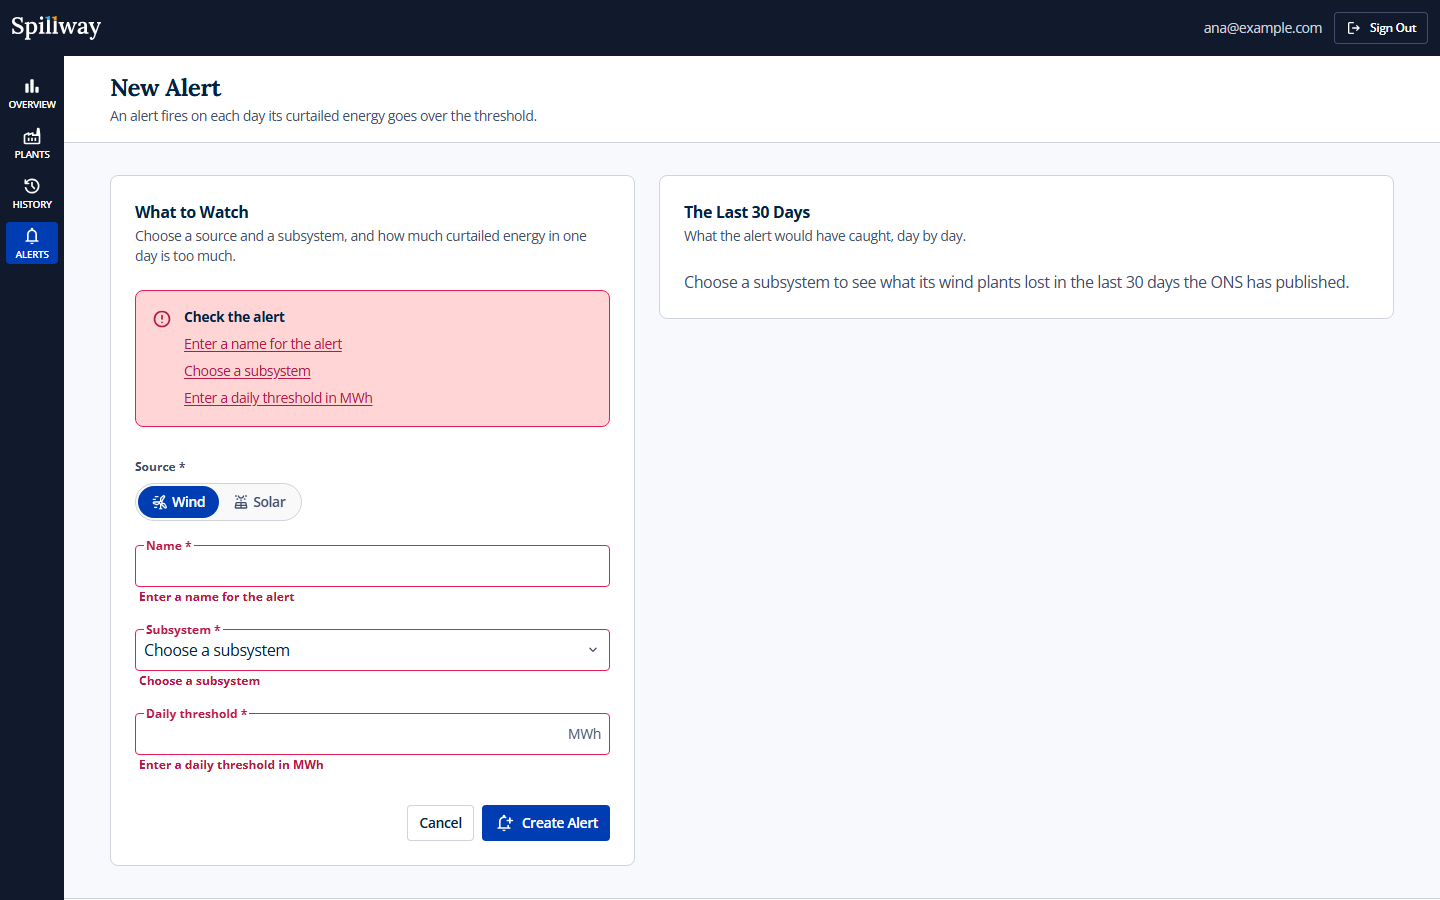
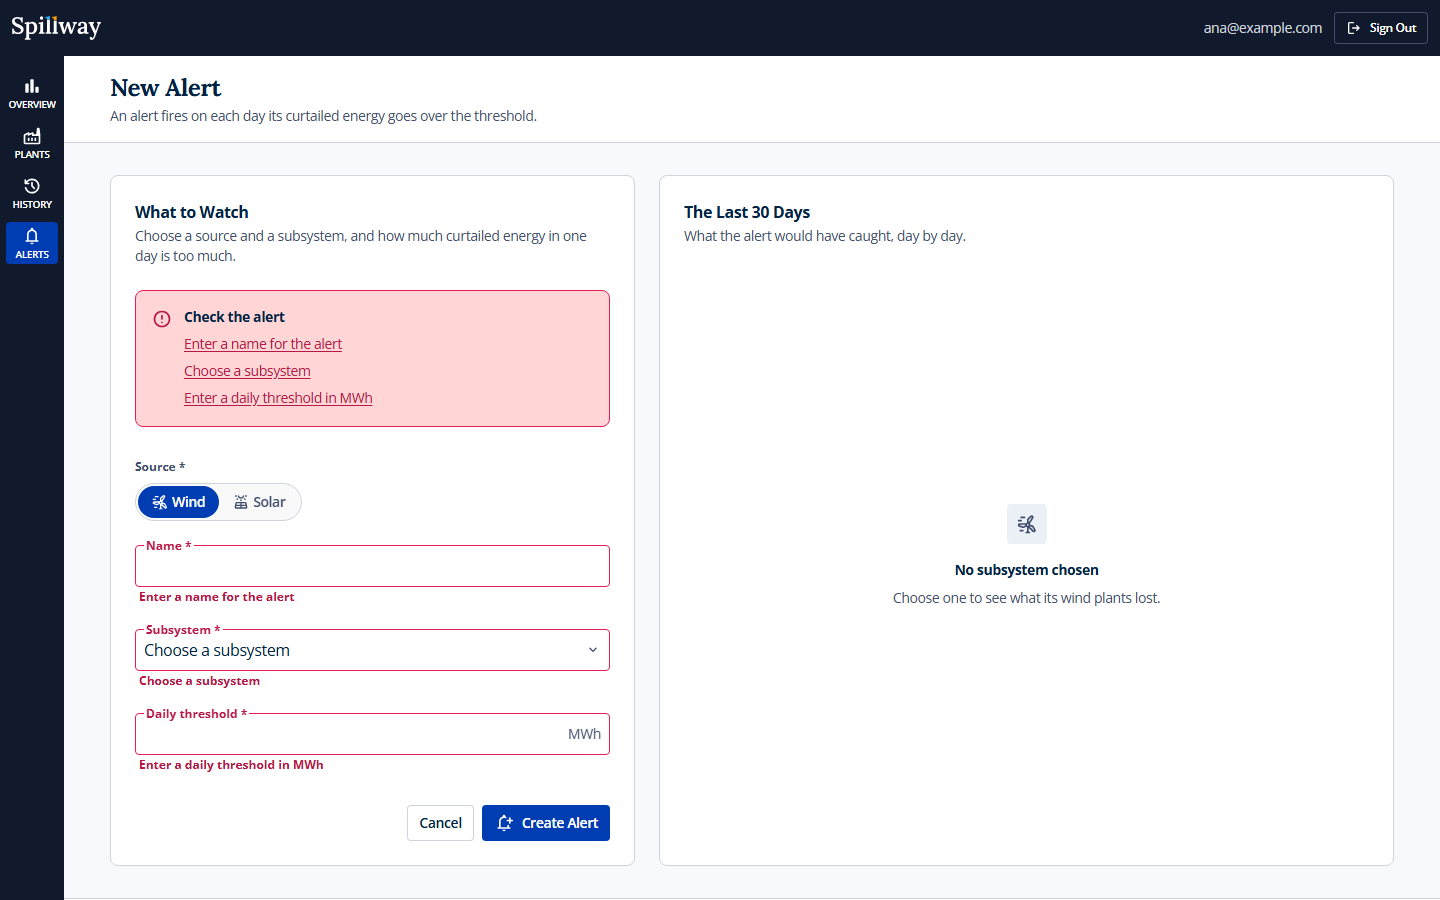
feat(web): show the empty preview as an empty state

Changed region(s): [[0.4688, 0.3111, 0.9375, 0.3422], [0.625, 0.6222, 0.8125, 0.6844], [0.6875, 0.56, 0.7188, 0.5911]]

diff --git a/apps/web/src/routes/alerts/new/+page.svelte b/apps/web/src/routes/alerts/new/+page.svelte
@@ -1,4 +1,5 @@
 <script lang="ts">
+  import Downloading from '~icons/material-symbols/downloading-rounded';
   import NotificationAdd from '~icons/material-symbols/notification-add-outline-rounded';
 
   import { enhance } from '$app/forms';
@@ -6,6 +7,7 @@
   import Button from '#lib/components/ui/Button.svelte';
   import { buttonStyles } from '#lib/components/ui/button-styles.ts';
   import Card from '#lib/components/ui/Card.svelte';
+  import EmptyState from '#lib/components/ui/EmptyState.svelte';
   import ErrorSummary from '#lib/components/ui/ErrorSummary.svelte';
   import PageHeader from '#lib/components/ui/PageHeader.svelte';
   import AlertFields from '#lib/features/alerts/AlertFields.svelte';
@@ -138,10 +140,13 @@
         : `${sources.find((s) => s.value === source)?.label} in the ${subsystemLabel(subsystem)}, day by day, against your threshold.`}
     >
       {#if data.recent === null}
-        <p class="ts-primary-body-l text-text-secondary-default">
-          The ONS's data is still loading, so there is nothing to preview yet. The alert works all
-          the same.
-        </p>
+        <div class="flex flex-1 items-center justify-center">
+          <EmptyState
+            icon={Downloading}
+            title="Nothing to preview yet"
+            description="The ONS's data is still loading. The alert works all the same."
+          />
+        </div>
       {:else}
         <Preview recent={data.recent} {source} {subsystem} {threshold} />
       {/if}

diff --git a/apps/web/src/lib/components/ui/EmptyState.svelte b/apps/web/src/lib/components/ui/EmptyState.svelte
@@ -1,21 +1,41 @@
 <script lang="ts">
   import type { Snippet } from 'svelte';
 
+  import type { Icon as IconComponent } from './icon.ts';
+
   type Props = {
     title: string;
     description: string;
     headingLevel?: 2 | 3;
-    /** The illustration, drawn for the place it is shown in. */
-    art: Snippet;
     children?: Snippet;
-  };
+  } & (
+    | {
+        /** The illustration, drawn for the place it is shown in. */
+        art: Snippet;
+        icon?: never;
+      }
+    | {
+        /** In place of an illustration, where one would be too much, as inside a card. */
+        icon: IconComponent;
+        art?: never;
+      }
+  );
 
-  let { title, description, headingLevel = 3, art, children }: Props = $props();
+  let { title, description, headingLevel = 3, art, icon: Icon, children }: Props = $props();
 </script>
 
 <!-- An illustrated message, small size, with a heading that fits its place. -->
 <div class="flex flex-col items-center gap-500 px-600 py-700 text-center">
-  <div aria-hidden="true" class="w-[9.875rem]">{@render art()}</div>
+  {#if Icon}
+    <div
+      aria-hidden="true"
+      class="flex size-[2.5rem] items-center justify-center rounded-200 bg-surface-container-secondary text-icon-secondary"
+    >
+      <Icon width={20} height={20} />
+    </div>
+  {:else}
+    <div aria-hidden="true" class="w-[9.875rem]">{@render art?.()}</div>
+  {/if}
   <div class="flex flex-col gap-300">
     <svelte:element
       this={`h${headingLevel}`}

diff --git a/apps/web/src/lib/features/alerts/Preview.svelte b/apps/web/src/lib/features/alerts/Preview.svelte
@@ -1,6 +1,7 @@
 <script lang="ts">
   import type { DailyCurtailment, Source, Subsystem } from '#lib/api/generated/types.gen.ts';
   import Columns from '#lib/components/charts/Columns.svelte';
+  import EmptyState from '#lib/components/ui/EmptyState.svelte';
   import { dayAndMonth, int, shortDay } from '#lib/features/curtailment/format.ts';
   import { sourceOf, subsystemLabel } from '#lib/features/curtailment/grid.ts';
   import { addDays } from '#lib/features/curtailment/series.ts';
@@ -30,10 +31,17 @@
 </script>
 
 {#if subsystem === undefined}
-  <p class="ts-primary-body-l text-text-secondary-default">
-    Choose a subsystem to see what its {s.label.toLowerCase()} plants lost in the last
-    {days.length || 30} days the ONS has published.
-  </p>
+  <!--
+    Where the chart will go, and as tall, so it takes this place once a
+    subsystem is chosen. The icon is the chosen source's, so it follows the form.
+  -->
+  <div class="flex min-h-[16.25rem] flex-1 items-center justify-center">
+    <EmptyState
+      icon={s.icon}
+      title="No subsystem chosen"
+      description={`Choose one to see what its ${s.label.toLowerCase()} plants lost.`}
+    />
+  </div>
 {:else}
   <Columns
     title={`${s.label} in the ${subsystemLabel(subsystem)}, the last ${days.length} days${

diff --git a/e2e/tests/alerts.spec.ts b/e2e/tests/alerts.spec.ts
@@ -9,7 +9,7 @@ test('an alert is created, refused when it repeats a name, and deleted', async (
 
   await page.getByRole('link', { name: 'New Alert' }).first().click();
   await expect(page).toHaveURL(/\/alerts\/new$/);
-  await expect(page.getByText(/Choose a subsystem to see/)).toBeVisible();
+  await expect(page.getByRole('heading', { name: 'No subsystem chosen' })).toBeVisible();
 
   // Nothing filled in: the summary takes focus and links to each field.
   await page.getByRole('button', { name: 'Create Alert' }).click();

diff --git a/apps/web/src/lib/features/alerts/Preview.svelte.spec.ts b/apps/web/src/lib/features/alerts/Preview.svelte.spec.ts
@@ -34,6 +34,9 @@ describe('Preview', () => {
 
   it('asks for what it still needs', async () => {
     await render(Preview, { recent, source: 'wind', subsystem: undefined, threshold: undefined });
-    await expect.element(page.getByText(/Choose a subsystem/)).toBeVisible();
+    await expect.element(page.getByRole('heading', { name: 'No subsystem chosen' })).toBeVisible();
+    await expect
+      .element(page.getByText('Choose one to see what its wind plants lost.'))
+      .toBeVisible();
   });
 });
